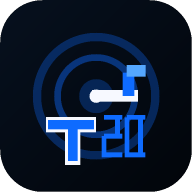
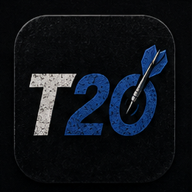
Add files via upload

diff --git a/index.html b/index.html
@@ -9,7 +9,6 @@
   <meta name="apple-mobile-web-app-title" content="Triple20">
   <meta name="apple-mobile-web-app-status-bar-style" content="black-translucent">
   <link rel="manifest" href="manifest.webmanifest">
-  <link rel="icon" type="image/svg+xml" href="icons/triple20-icon.svg">
   <link rel="icon" type="image/png" sizes="192x192" href="icons/triple20-icon-192.png">
   <link rel="apple-touch-icon" sizes="180x180" href="icons/apple-touch-icon.png">
   <link rel="stylesheet" href="styles.css">